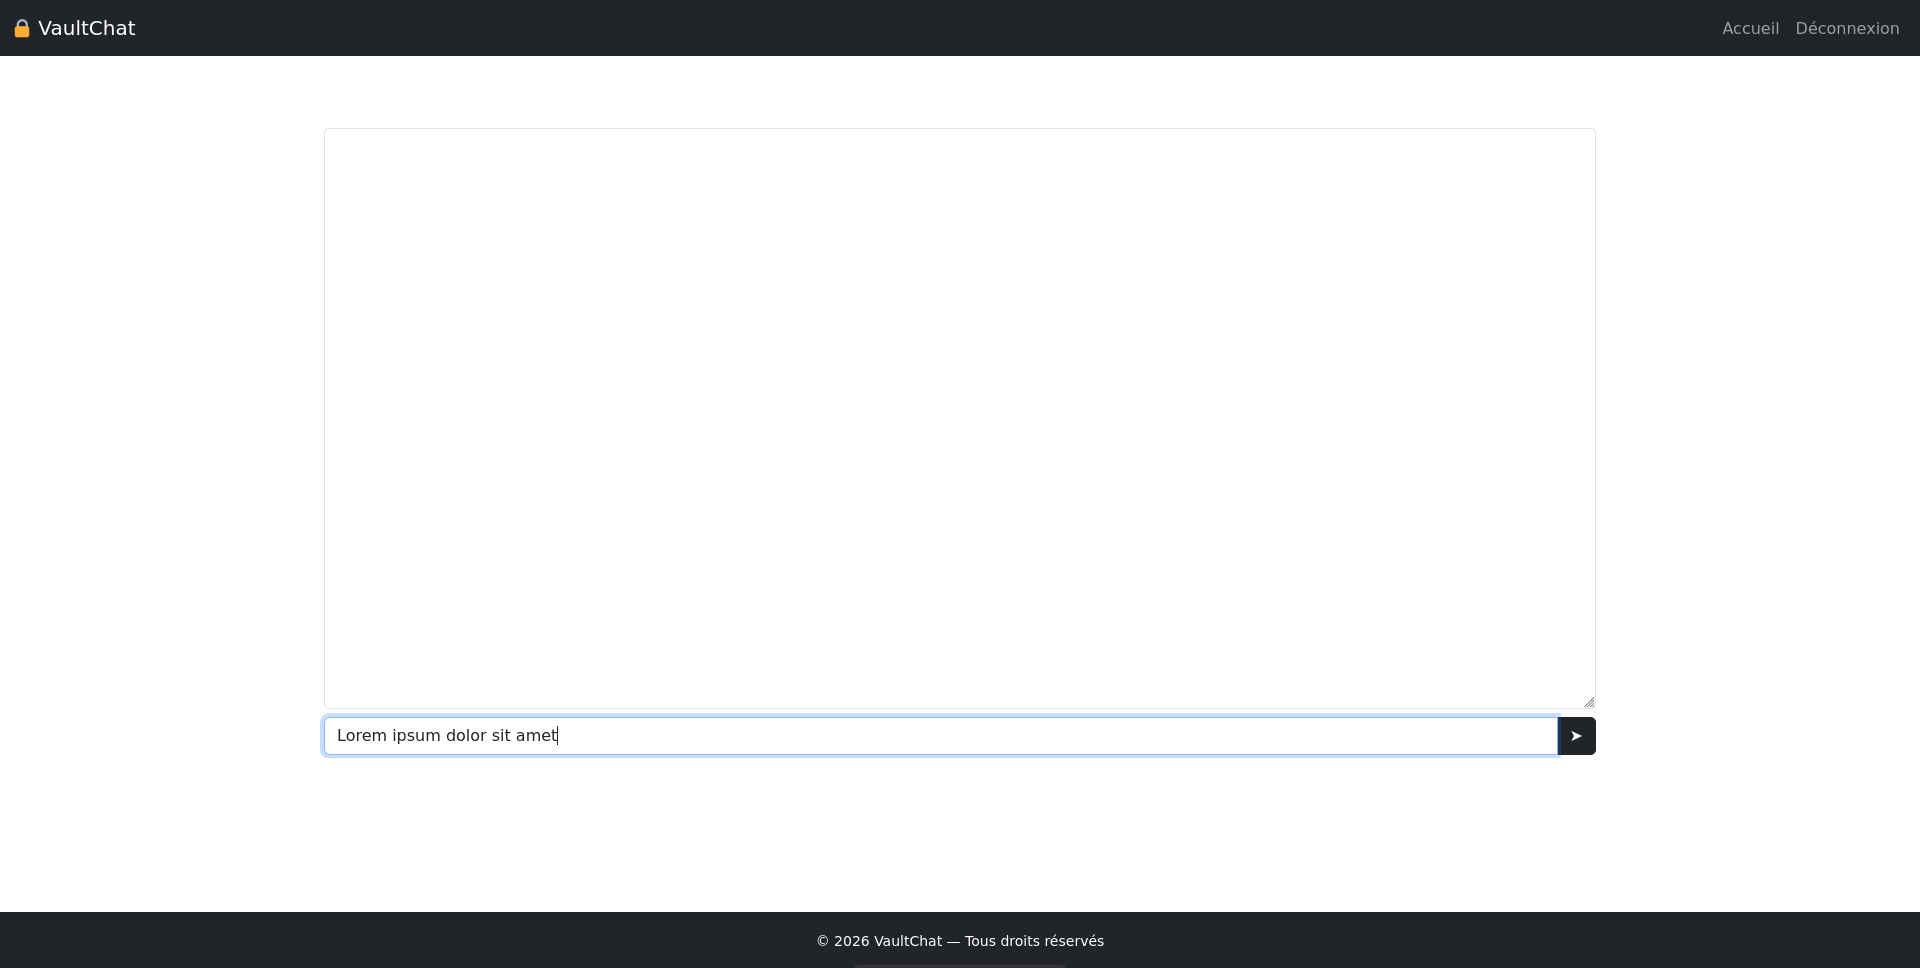
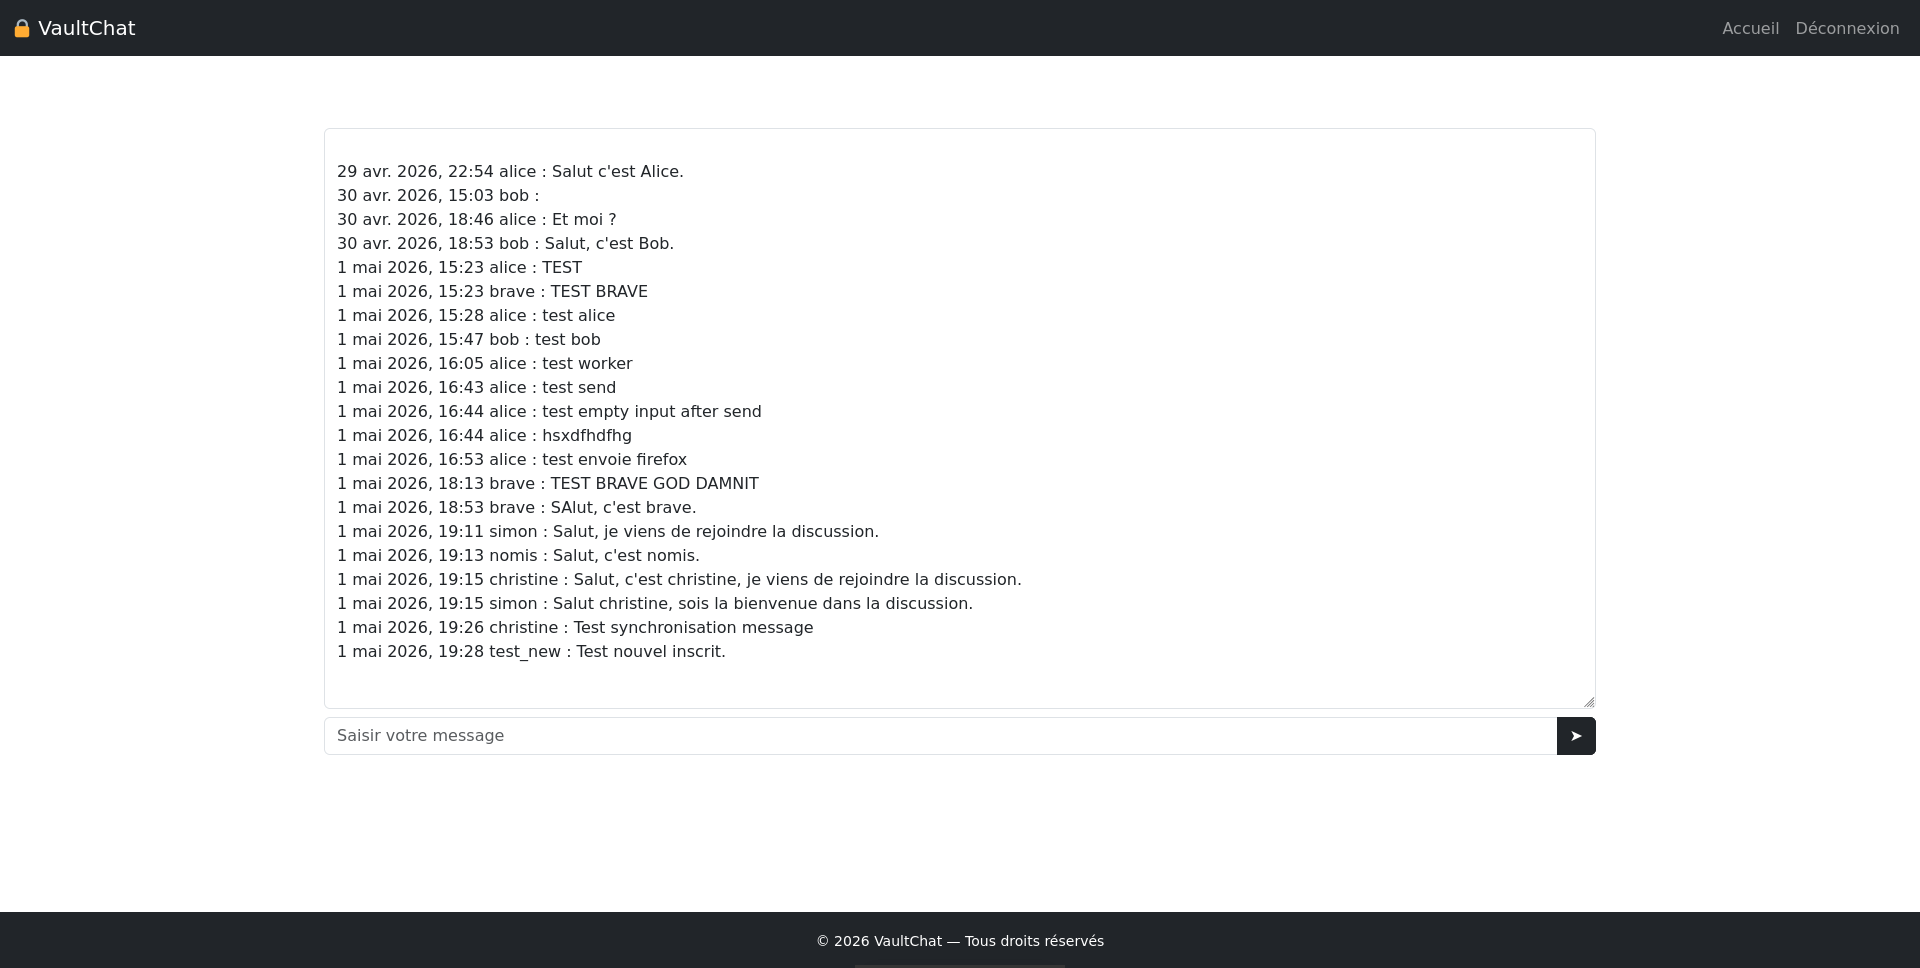
Screen zone de discussion.

Changed region(s): [[0.1875, 0.155, 0.5312, 0.6818], [0.1562, 0.7128, 0.8125, 0.8058]]

diff --git a/static/js/user/chat.js b/static/js/user/chat.js
@@ -54,16 +54,14 @@ async function pollMessages(config, workerPort, chatId, lastMessageId) {
     return currentLastMessageId;
 }
 
-
-
 document.addEventListener('DOMContentLoaded', async () => {
     const config = await loadConfig();
     const params = new URLSearchParams(window.location.search);
     const chatId = params.get("id");
-    //const identities = await fetchRecipientsIdentities(chatId);
     const plaintextField = document.getElementById("id_message_field");
     const sendButton = document.getElementById("id_send_button");
     const messageOutputArea = document.getElementById("id_message_output");
+    messageOutputArea.value += "\n";
     //vault worker
     const worker = new SharedWorker("/static/js/core/vault.js", {
         type: "module"
@@ -80,27 +78,6 @@ document.addEventListener('DOMContentLoaded', async () => {
         });
     }
     pollLoop(config, port, chatId, messageOutputArea);
-    // MESSAGE RETRIEVE
-    /*const ciphersToDecrypt = await fetchMessageCiphers(chatId);
-    const cipherObjects = ciphersToDecrypt.ciphertexts;
-    let lastMessageId = cipherObjects[cipherObjects.length - 1].message_id;
-    console.log(lastMessageId);*/
-    // Decryption worker
-    /*port.postMessage({
-        type: "DECRYPT",
-        payload: {
-            config,
-            cipherObjects
-        }
-    });*/
-    /*port.addEventListener('message', (event) => {  
-        const { type, result, error } = event.data || {};  
-        if (type === 'DECRYPT_RESULT') {    
-            console.log('Résultat de décryptage :', result);      
-        } else {
-            console.log('Erreur :', error);   
-        }
-    });*/
     sendButton.addEventListener('click', async (e) => {
         const identities = await fetchRecipientsIdentities(chatId);
         const plaintext = plaintextField.value;

diff --git a/static/js/user/login.js b/static/js/user/login.js
@@ -70,14 +70,16 @@ document.addEventListener('DOMContentLoaded', async () => {
         try {
             if(auxAuthState) {
                 privateKeyMaterials = await getFileSystemPrivateKey(fileInput.files[0]);
-                privateKeyMaterials = privateKeyMaterials.ECDSA;
                 privateKeyMaterialsECDH = privateKeyMaterials.ECDH; // WARNING peut-être pas implémenté CORRECTEMENT ? 
+                privateKeyMaterials = privateKeyMaterials.ECDSA;
+                
 
             } else {
                 privateKeyMaterials = await getBrowserPrivateKey(config, username, "ECDSA");
                 privateKeyMaterialsECDH = await getBrowserPrivateKey(config, username, "ECDH");
             }
             try {
+                console.log(privateKeyMaterials);
                 const pkcs8PrivateKey = await decryptECDSAPrivateKey(privateKeyMaterials, passphrase, config);
                 const pkcs8ECDHPrivateKey = await decryptECDHPrivateKey(privateKeyMaterialsECDH, passphrase, config);
                 const signatureB64 = await signNonce(pkcs8PrivateKey, nonce, config);
@@ -89,7 +91,7 @@ document.addEventListener('DOMContentLoaded', async () => {
                 }
                 form.submit();
             } catch(err) {
-                alert("Une erreur s'est produite lors du déchiffrement de votre clé, veuillez vérifier votre passphrase.");
+                alert("Une erreur s'est produite lors du déchiffrement de votre clé, veuillez vérifier votre passphrase : " + err);
             }
         } catch(err) {
             alert("Une erreur s'est produite lors de l'ouverture du coffre cryptographique. Détails : " + err);

diff --git a/static/js/core/vault.js b/static/js/core/vault.js
@@ -4,10 +4,6 @@ let privateKey = null;
 
 const ports = new Set();
 
-//const brands = self.navigator?.userAgentData?.brands ?? [];
-//const isChrome = brands.some(b => ["Google Chrome", "Chromium"].includes(b.brand));
-//var isBrave = (navigator.brave && await navigator.brave.isBrave() || false);
-
 console.log("VAULT WORKER LOADED");
 
 function serializeError(err) {
